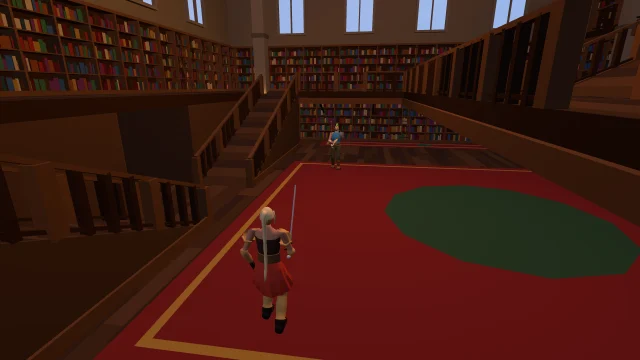
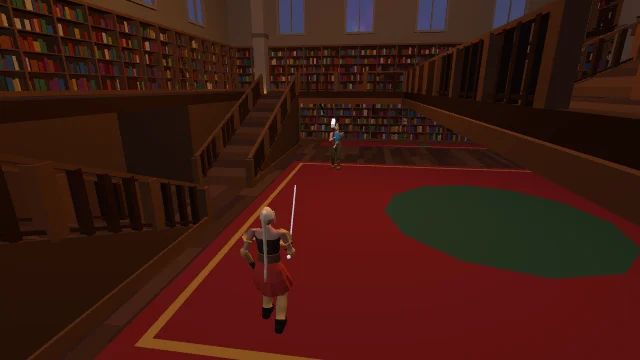
Library windows look out on the mystic-space nebula
The library's window glass is drawn as the sky seen through it (skyPane: the
sky shader along the ray from the camera through the pane, faintly tinted by
the glass), so its arches show the same drifting nebula and stars as the
Random Map's dome. The panes are decals on the solid outer wall and the room
is closed, so no dome is added: nothing would see it, and it would cost a
full-screen pass. The sky colours are shared (MYSTIC_SKY). The library's menu
picture is re-shot. Render-only.

Claude-Session: https://claude.ai/code/session_01TLP96YxtFWBCfPXuE9dgUZ

diff --git a/src/render/stage.ts b/src/render/stage.ts
@@ -6,7 +6,7 @@ import { CameraCollider } from './cameraCollider';
 import { colliderView, jumpLinkArcs, seeThrough, walkFans } from './colliderView';
 import { abyss, greybox, isGreybox } from './greybox';
 import { kitPlacements, type KitPlacement } from './kitPlacement';
-import { sky, type SkyLook } from './sky';
+import { sky, skyPane, type SkyLook } from './sky';
 import { snowfall, type SnowfallLook } from './snowfall';
 
 /** Camera field of view (degrees): vertical on a wide screen, widened on a tall one to keep this much across. */
@@ -42,6 +42,8 @@ interface ArenaLook {
   readonly snow?: SnowfallLook;
   /** A space sky round the camera, if any (drawn behind everything, unfogged). */
   readonly sky?: SkyLook;
+  /** A material of the model (by name) drawn as window glass looking out on `sky`, tinted by `tint` (`amount`, 0 to 1). */
+  readonly windows?: { readonly material: string; readonly sky: SkyLook; readonly tint: number; readonly amount: number };
   /** Parts of the model drawn without fog (a sky dome), by node name. */
   readonly unfogged?: readonly string[];
   /** The world sliding past a still Arena (a moving train's surroundings). */
@@ -64,9 +66,12 @@ const directional = (color: number, intensity: number, x: number, y: number, z: 
   return light;
 };
 
+/** Mystic space: a violet and magenta nebula with cyan wisps over the stars, sinking into violet mist. */
+const MYSTIC_SKY: SkyLook = { deep: 0x2b0f5c, glow: 0xa8328c, highlight: 0x5fe0d8, horizon: 0x2a1f4a };
+
 /** Arenas drawn from a model (public/models/arenas/<name>.glb, exported by art/build_<name>.py); the rest are drawn from their Walk Surfaces. */
 const ARENA_LOOKS: Readonly<Record<string, ArenaLook>> = {
-  // Warm, dim candlelight, cool moonlight through the windows, and brown haze.
+  // Warm, dim candlelight, cool light through windows onto a nebula, and brown haze.
   library: {
     lights: () => [
       new THREE.HemisphereLight(0x8c97b8, 0x3a2616, 0.9),
@@ -82,6 +87,7 @@ const ARENA_LOOKS: Readonly<Record<string, ArenaLook>> = {
       { prefix: 'LIGHT_sconce1', intensity: 7, distance: 9, color: 0xffb470 },
       { prefix: 'LIGHT_gallery', intensity: 14, distance: 12, color: 0xffb470 },
     ],
+    windows: { material: 'Library_Glass', sky: MYSTIC_SKY, tint: 0x9fb4e0, amount: 0.12 },
   },
   // Lava glow from below, cold light from the freezing head above, and smoky orange air.
   chamber: {
@@ -157,7 +163,7 @@ const KIT_LOOKS: Readonly<Record<string, ArenaLook>> = {
     background: 0x2a1f4a,
     fog: { color: 0x2a1f4a, near: 5, far: 34 },
     lamps: [],
-    sky: { deep: 0x2b0f5c, glow: 0xa8328c, highlight: 0x5fe0d8, horizon: 0x2a1f4a },
+    sky: MYSTIC_SKY,
   },
 };
 
@@ -368,7 +374,7 @@ const models = new Map<string, Promise<THREE.Object3D>>();
 /** Flat Lambert materials like the rest of the scene; glass and flames keep their glow. */
 function lambert(o: THREE.Mesh): void {
   const from = o.material as THREE.MeshStandardMaterial;
-  o.material = new THREE.MeshLambertMaterial({ color: from.color, emissive: from.emissive, emissiveIntensity: from.emissiveIntensity, side: from.side });
+  o.material = new THREE.MeshLambertMaterial({ name: from.name, color: from.color, emissive: from.emissive, emissiveIntensity: from.emissiveIntensity, side: from.side });
 }
 
 function arenaModel(name: string, lamps: readonly Lamp[]): Promise<THREE.Object3D> {
@@ -415,6 +421,7 @@ function modelled(name: string, look: ArenaLook, current: () => boolean): Settin
   const loaded = arenaModel(name, look.lamps)
     .then((model) => {
       for (const node of look.unfogged ?? []) model.getObjectByName(node)?.traverse(unfog);
+      if (look.windows) glaze(model, look.windows);
       if (look.scroll) bands = scrolling(model, look.scroll);
       // Shown only if this Arena is still the one drawn once it has loaded.
       if (current()) {
@@ -509,6 +516,17 @@ function kitted(kit: Kit, layout: Layout, look: ArenaLook, arena: ArenaGeometry,
     if (shown) seeThrough(shown, on);
   };
   return { root, background: new THREE.Color(look.background), fog: new THREE.Fog(look.fog.color, look.fog.near, look.fog.far), loaded, seeThrough: see };
+}
+
+/** Draws the windows' glass as the sky beyond it. */
+function glaze(model: THREE.Object3D, windows: NonNullable<ArenaLook['windows']>): void {
+  let pane: THREE.ShaderMaterial | undefined;
+  model.traverse((o) => {
+    if (!(o instanceof THREE.Mesh) || o.material.name !== windows.material) return;
+    pane ??= skyPane(windows.sky, windows.tint, windows.amount);
+    pane.name = windows.material;
+    o.material = pane;
+  });
 }
 
 function unfog(o: THREE.Object3D): void {

diff --git a/src/render/sky.ts b/src/render/sky.ts
@@ -11,11 +11,22 @@ export interface SkyLook {
 /** The dome's radius (m): well inside the camera's far plane. It follows the camera, so it is never reached. */
 const RADIUS = 100;
 
-const vertexShader = /* glsl */ `
+/** The dome's: the direction is the vertex's own (the dome is centred on the camera). */
+const domeVertexShader = /* glsl */ `
   varying vec3 vDir;
   void main() {
     vDir = position;
     gl_Position = projectionMatrix * modelViewMatrix * vec4(position, 1.0);
+  }
+`;
+
+/** A window pane's: the direction is from the camera through the pane, so the sky stays put beyond it as the camera moves. */
+const paneVertexShader = /* glsl */ `
+  varying vec3 vDir;
+  void main() {
+    vec4 world = modelMatrix * vec4(position, 1.0);
+    vDir = world.xyz - cameraPosition;
+    gl_Position = projectionMatrix * viewMatrix * world;
   }
 `;
 
@@ -25,6 +36,8 @@ const fragmentShader = /* glsl */ `
   uniform vec3 uGlow;
   uniform vec3 uHighlight;
   uniform vec3 uHorizon;
+  uniform vec3 uTint;
+  uniform float uTintAmount;
   varying vec3 vDir;
 
   float hash(vec3 p) {
@@ -83,6 +96,7 @@ const fragmentShader = /* glsl */ `
     // The mist rises from the horizon and fills everything below it.
     float mist = smoothstep(0.22, -0.08, dir.y);
     color = mix(color, uHorizon, mist);
+    color = mix(color, uTint, uTintAmount);
     gl_FragColor = vec4(color, 1.0);
     #include <colorspace_fragment>
   }
@@ -94,14 +108,7 @@ const fragmentShader = /* glsl */ `
  * never fogged. Render-only.
  */
 export function sky(look: SkyLook): THREE.Mesh {
-  const uniforms = {
-    uTime: { value: 0 },
-    uDeep: { value: new THREE.Color(look.deep) },
-    uGlow: { value: new THREE.Color(look.glow) },
-    uHighlight: { value: new THREE.Color(look.highlight) },
-    uHorizon: { value: new THREE.Color(look.horizon) },
-  };
-  const material = new THREE.ShaderMaterial({ uniforms, vertexShader, fragmentShader, side: THREE.BackSide, depthWrite: false, depthTest: false, fog: false });
+  const material = skyMaterial(look, domeVertexShader, { side: THREE.BackSide, depthWrite: false, depthTest: false });
   const dome = new THREE.Mesh(new THREE.SphereGeometry(RADIUS, 48, 24), material);
   dome.name = 'sky';
   // It is always round the camera: never culled, drawn before the Arena.
@@ -110,10 +117,37 @@ export function sky(look: SkyLook): THREE.Mesh {
   dome.matrixAutoUpdate = false;
   const at = new THREE.Vector3();
   dome.onBeforeRender = (_renderer, _scene, camera) => {
-    // Wrapped to keep float precision in the shader.
-    uniforms.uTime.value = (performance.now() / 1000) % 3600;
     // Centred on the camera: the parent (an Arena's root) sits at the origin, unmoved.
     dome.matrixWorld.makeTranslation(at.setFromMatrixPosition(camera.matrixWorld));
   };
   return dome;
+}
+
+/**
+ * Window glass that looks out on the sky: each pane drawn as the sky seen through it, faintly tinted
+ * by the glass (`tint`, `amount` from 0 to 1). For a closed room, where a dome would never be seen. Render-only.
+ */
+export function skyPane(look: SkyLook, tint: number, amount: number): THREE.ShaderMaterial {
+  const material = skyMaterial(look, paneVertexShader, { side: THREE.DoubleSide });
+  material.uniforms.uTint!.value.set(tint);
+  material.uniforms.uTintAmount!.value = amount;
+  return material;
+}
+
+function skyMaterial(look: SkyLook, vertexShader: string, params: THREE.ShaderMaterialParameters): THREE.ShaderMaterial {
+  const uniforms = {
+    uTime: { value: 0 },
+    uDeep: { value: new THREE.Color(look.deep) },
+    uGlow: { value: new THREE.Color(look.glow) },
+    uHighlight: { value: new THREE.Color(look.highlight) },
+    uHorizon: { value: new THREE.Color(look.horizon) },
+    uTint: { value: new THREE.Color() },
+    uTintAmount: { value: 0 },
+  };
+  const material = new THREE.ShaderMaterial({ ...params, uniforms, vertexShader, fragmentShader, fog: false });
+  material.onBeforeRender = () => {
+    // Wrapped to keep float precision in the shader.
+    uniforms.uTime.value = (performance.now() / 1000) % 3600;
+  };
+  return material;
 }
